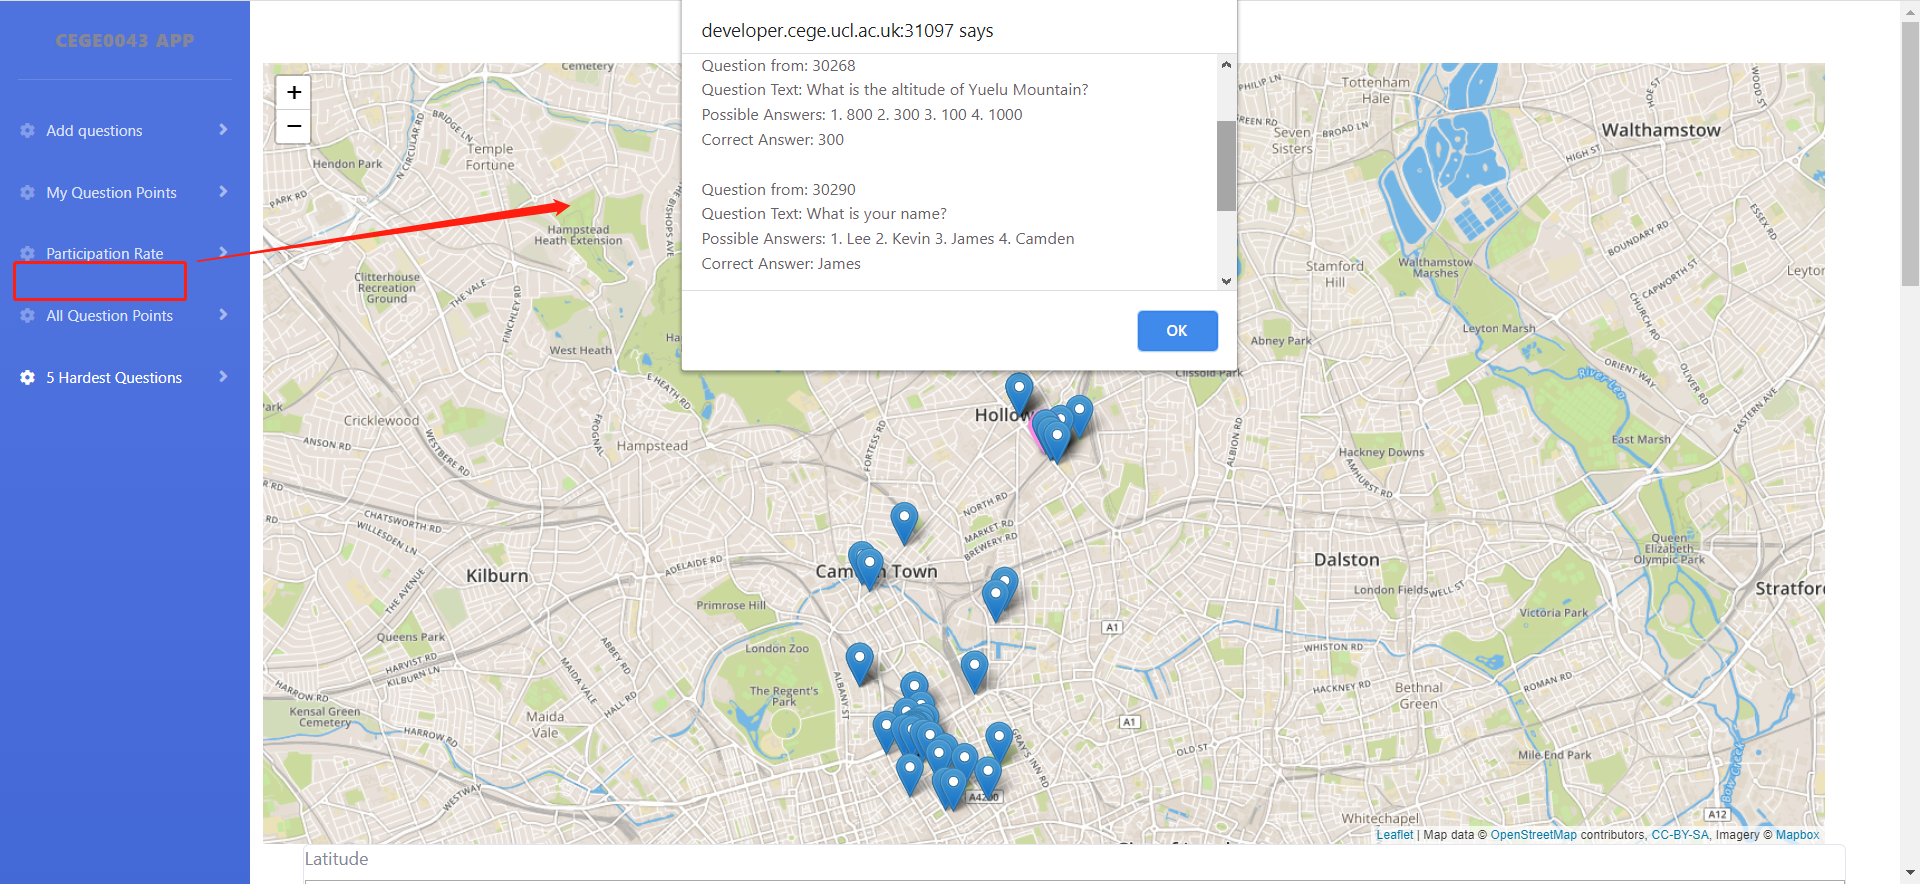
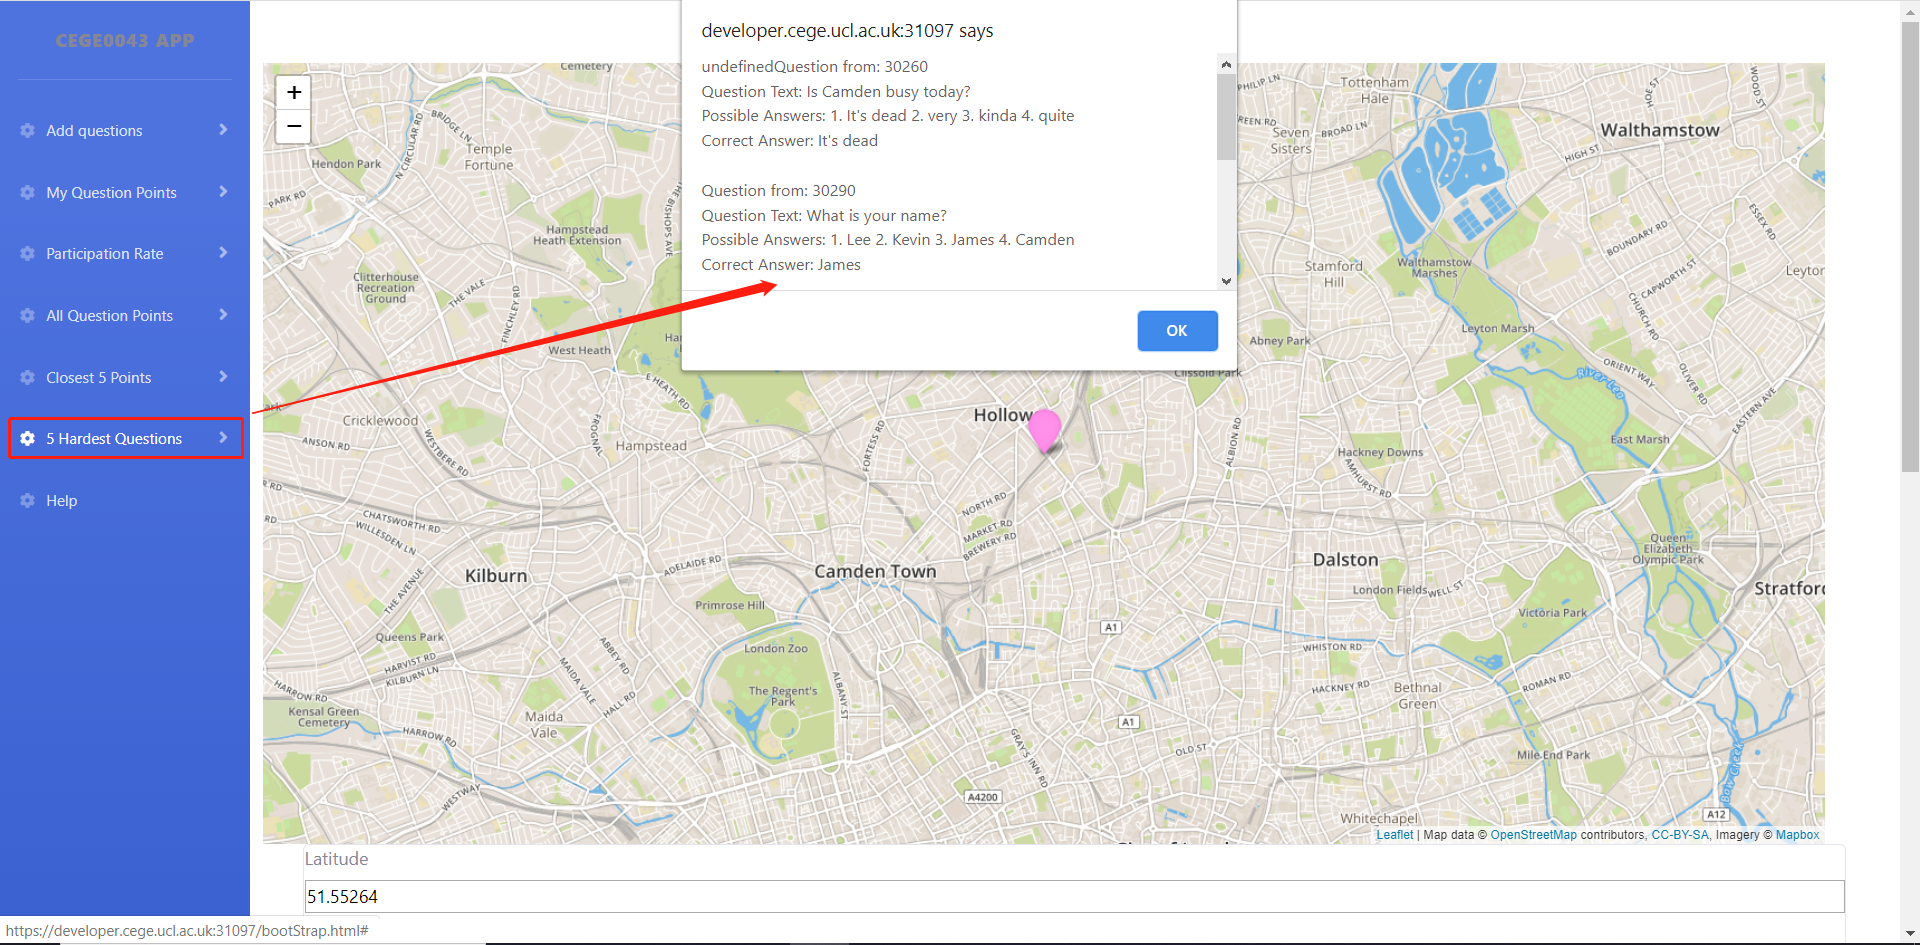
Change the guide of 5 closest points from quiz app to question app

diff --git a/help_quiz.html b/help_quiz.html
@@ -62,29 +62,20 @@
 
 	<br/>
 
-	<h3>Step 6: The closest 5 points</h3>
-	<P>After clicking the Closest 5 Points sub-menu 'Show Closest 5 Points', the 5 closest points will be displayed on the map with orange points. These points can be removed by clicking on the 'Remove Closest 5 Points'(Figure 8).</P>
-
-	<P ALIGN=CENTER STYLE="margin-bottom: 0.14in; line-height: 100%"><IMG SRC="ScreenShoot/9.png" NAME="image18.png" ALIGN=BOTTOM HSPACE=12 VSPACE=12 WIDTH=730.8 HEIGHT=337.5 BORDER=0></P>
-
-	<P ALIGN=CENTER><B>Figure 8: </B>The closest 5 question points: Pink point(User Location); Orange points: (Closest 5 Points)</P>
-
-	<br/>
-
-	<h3>Step 7: The last 5 points</h3>
-	<P>After clicking the Last 5 Points sub-menu 'Show Last 5 Points', the Last 5 points will be displayed on the map and the color of the point depends on whether it is correct the first time it is answered. These points can be removed by clicking on the 'Remove Last 5 Points'(Figure 9).</P>
+	<h3>Step 6: The last 5 points</h3>
+	<P>After clicking the Last 5 Points sub-menu 'Show Last 5 Points', the Last 5 points will be displayed on the map and the color of the point depends on whether it is correct the first time it is answered. These points can be removed by clicking on the 'Remove Last 5 Points'(Figure 8).</P>
 
 	<P ALIGN=CENTER STYLE="margin-bottom: 0.14in; line-height: 100%"><IMG SRC="ScreenShoot/10.png" NAME="image18.png" ALIGN=BOTTOM HSPACE=12 VSPACE=12 WIDTH=730.8 HEIGHT=337.5 BORDER=0></P>
 
-	<P ALIGN=CENTER><B>Figure 9: </B>Red: wrong answer; Green: correct answer</P>
+	<P ALIGN=CENTER><B>Figure 8: </B>Red: wrong answer; Green: correct answer</P>
 
 	<br/>
 
-	<h3>Step 8: Unanswered questions</h3>
-	<P>After clicking the Unanswered Questions sub-menu 'Show Unanswered Q', the unanswered question points will be displayed on the map with blue colour. These points can be removed by clicking on the 'Remove Unanswered Q'. The question form will also pop-up automatically when the position of the user is close to quiz points (Figure 10).</P>
+	<h3>Step 7: Unanswered questions</h3>
+	<P>After clicking the Unanswered Questions sub-menu 'Show Unanswered Q', the unanswered question points will be displayed on the map with blue colour. These points can be removed by clicking on the 'Remove Unanswered Q'. The question form will also pop-up automatically when the position of the user is close to quiz points (Figure 9).</P>
 
 	<P ALIGN=CENTER STYLE="margin-bottom: 0.14in; line-height: 100%"><IMG SRC="ScreenShoot/11.png" NAME="image18.png" ALIGN=BOTTOM HSPACE=12 VSPACE=12 WIDTH=730.8 HEIGHT=337.5 BORDER=0></P>
 
-	<P ALIGN=CENTER><B>Figure 10: </B>Blue: Unanswered question points</P>
+	<P ALIGN=CENTER><B>Figure 9: </B>Blue: Unanswered question points</P>
 </body>
 </html>

diff --git a/help_question.html b/help_question.html
@@ -58,9 +58,20 @@
 
 	<br/>
 
-	<h3>Step 6:  5 hardest question points</h3>
-	<P>After clicking the '5 Hardest Questions', the 5 most difficult questions information include port_id, question text, possible answer and correct answer will be shown in alert window(Figure 7).</P>
+    <h3>Step 6: The closest 5 points</h3>
+	<P>After clicking the Closest 5 Points sub-menu 'Show Closest 5 Points', the 5 closest points will be displayed on the map with orange points. These points can be removed by clicking on the 'Remove Closest 5 Points'(Figure 7).</P>
+
+	<P ALIGN=CENTER STYLE="margin-bottom: 0.14in; line-height: 100%"><IMG SRC="ScreenShoot/9.png" NAME="image18.png" ALIGN=BOTTOM HSPACE=12 VSPACE=12 WIDTH=730.8 HEIGHT=337.5 BORDER=0></P>
+
+	<P ALIGN=CENTER><B>Figure 7: </B>The closest 5 question points: Pink point(User Location); Orange points: (Closest 5 Points)</P>
+
+	<br/>
+
+	<h3>Step 7:  5 hardest question points</h3>
+	<P>After clicking the '5 Hardest Questions', the 5 most difficult questions information include port_id, question text, possible answer and correct answer will be shown in alert window(Figure 8).</P>
 
 	<P ALIGN=CENTER STYLE="margin-bottom: 0.14in; line-height: 100%"><IMG SRC="ScreenShoot/question_8.png" NAME="image18.png" ALIGN=BOTTOM HSPACE=12 VSPACE=12 WIDTH=730.8 HEIGHT=337.5 BORDER=0></P>
 
-	<P ALIGN=CENTER><B>Figure 7: </B>The alert window shows the 5 most difficult questions</P>
+	<P ALIGN=CENTER><B>Figure 8: </B>The alert window shows the 5 most difficult questions</P>
+</body>
+</html>
